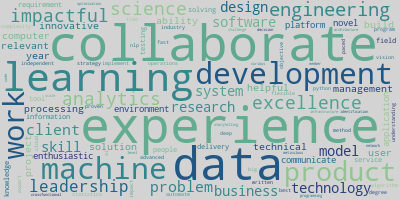
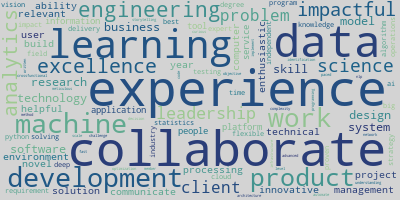
completed monograms and bigrams viz

diff --git a/nlp_main.py b/nlp_main.py
@@ -4014,9 +4014,7 @@ def visualize_subtopic(df, df_jobs_raw, terms_for_nlp, n_grams, subtopic_list, u
 
         '''  
         ### HOLDING TANK
-#         subtopic_list = subtopic_python
-#         ###        
-# ###!!! WORKING HERE: debug here ; viz is showing bigrams only  ; problem with how ngams is being calculated??        
+#         subtopic_list = subtopic_python 
 #         # subset the monograms that appear in the subtopic skills list
 #         mask_monogram = n_grams.grams.isin(subtopic_list) # fix here with subtopic_list
 #         monograms_df_sns = n_grams[mask_monogram]
@@ -4027,16 +4025,17 @@ def visualize_subtopic(df, df_jobs_raw, terms_for_nlp, n_grams, subtopic_list, u
         bigrams = nlp_count_n_grams(terms_for_nlp, n_gram_count, n_gram_range_start, n_gram_range_stop)
         
         # subset the bigrams for which at least one term appears in the technical skills list
-        bigram_match_to_tech_list = [x for x in bigrams.grams if any(b in x for b in subtopic_list)] # fix here with subtopic_list
+        bigram_match_to_tech_list = [x for x in bigrams.grams if any(b in x for b in subtopic_list)] 
         mask_bigram = bigrams.grams.isin(bigram_match_to_tech_list)
         bigrams_df_sns = bigrams[mask_bigram]
 
         # add the monograms and bigrams
         ngram_combined_sns = pd.concat([monograms_df_sns, bigrams_df_sns], axis=0, ignore_index=True)
-
+###!!! WORKING HERE: debug here the polluting bigrams do not overlap with the subtopic list!!!!
+### The term 'excellence' is flagging for subtopic viz because of a partial match to 'excel' in subtopic_viz
         # identify noisy, duplicate or unhelpful monograms and bigrams
-        # ngrams_to_silence = ['data', 'experience', 'business', 'science', 'year', 'ability', 'system'] # these from cred
-        ngrams_to_silence = ['system'] 
+        # ngrams_to_silence = ['data', 'experience', 'business', 'science', 'year', 'ability', 'system']
+        ngrams_to_silence = ['system',] 
         
         # exclude unwanted terms and phrases
         ngram_combined_sns = ngram_combined_sns[~ngram_combined_sns.grams.isin(ngrams_to_silence)].reset_index(drop=True)
@@ -4052,8 +4051,8 @@ def visualize_subtopic(df, df_jobs_raw, terms_for_nlp, n_grams, subtopic_list, u
                          order=ngram_combined_sns.sort_values('count', ascending = False).grams[:25],
                          orient='h',
                          palette='mako_r') # crest, mako, 'mako_d, Blues_d, mako_r, ocean, gist_gray, gist_gray_r, icefire
-        
-        ax.set_title(textwrap.fill('Consider How Intensely Employers Care about Each Subtopic FIX Skill', width=40), # Need to update this title
+
+        ax.set_title(textwrap.fill('Consider How Intensely Employers Care about Each ' + (' '.join(viz_title.split()[:-1])) + ' Skill', width=40), # Need to update this title
                      fontsize=24,
                      loc='center')   
         ax.set(ylabel=None)
